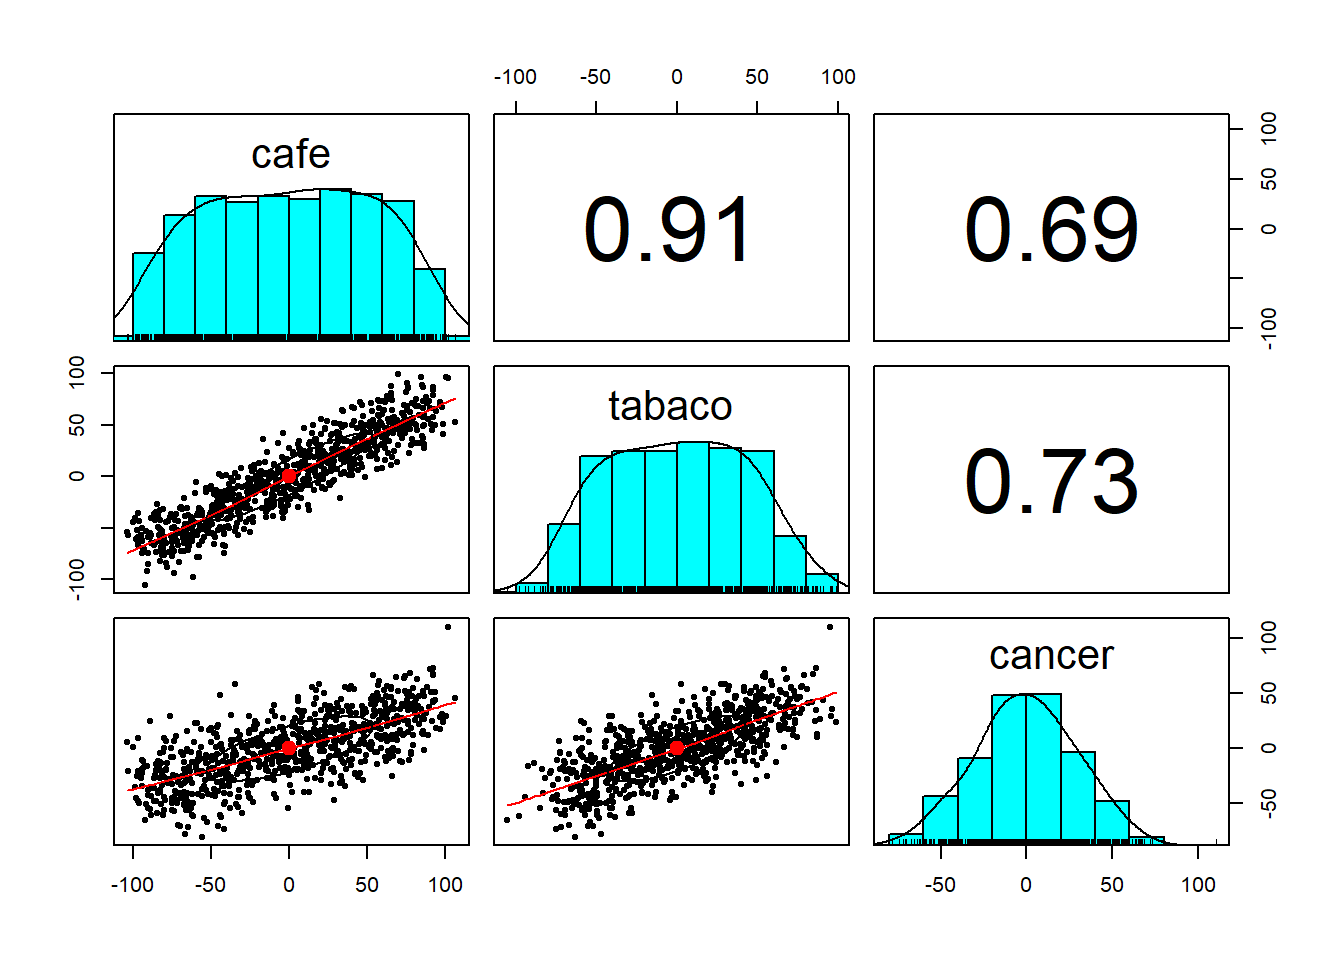
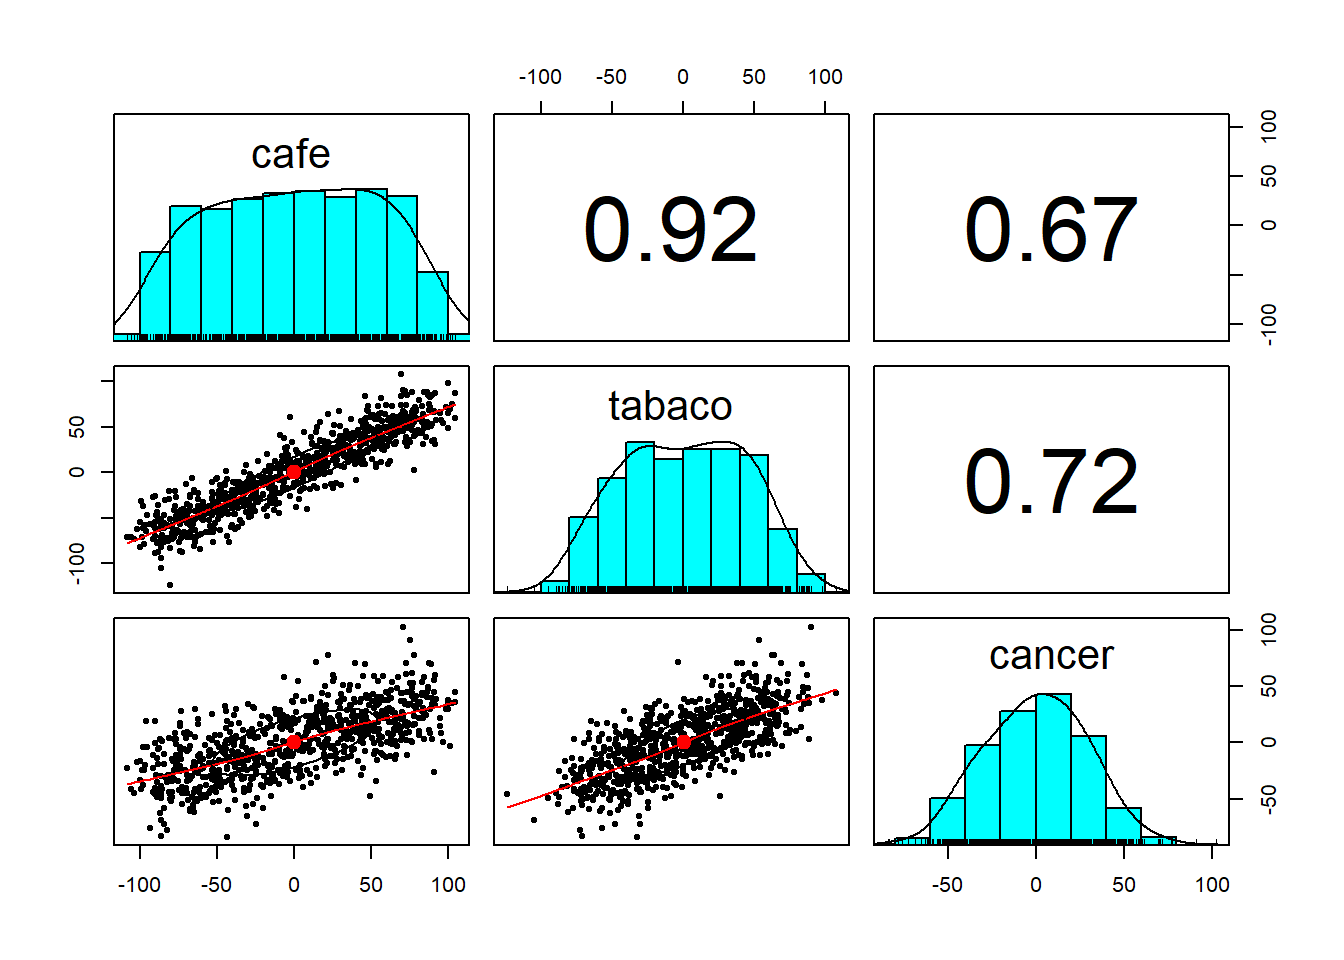
set seed en post inferencia, prediccion, colinealidad

diff --git a/content/post/2021-11-10-multicolinealidad-inferencia-y-prediccion/index.es.html b/content/post/2021-11-10-multicolinealidad-inferencia-y-prediccion/index.es.html
@@ -60,6 +60,8 @@ plot(dag_OK_cafe_tabaco)</code></pre>
 <pre class="r"><code>N &lt;- 1000
 estilo_de_vida &lt;- seq(-100, 100, length.out = N)
 
+set.seed(2021)
+
 # estilo_de_vida causa consumo de café
 cafe   &lt;- rnorm(N, .9 * estilo_de_vida, 10) 
 
@@ -72,7 +74,6 @@ cancer &lt;- rnorm(N, 0.5 * tabaco, 20)
 # Lo juntamos todo
 d &lt;- tibble(estilo_de_vida, cafe, tabaco, cancer)
 
-set.seed(2021)
 idx_train &lt;- caret::createDataPartition(d$cancer, p = .8, list = FALSE)
 d_train &lt;- d[idx_train, ]
 d_test  &lt;- d[-idx_train, ]</code></pre>
@@ -103,23 +104,23 @@ summary(lm_cafe_tabaco)</code></pre>
 ## 
 ## Residuals:
 ##     Min      1Q  Median      3Q     Max 
-## -53.895 -13.466  -0.088  13.825  63.248 
+## -68.354 -14.442  -0.442  13.902  73.135 
 ## 
 ## Coefficients:
 ##             Estimate Std. Error t value Pr(&gt;|t|)    
-## (Intercept) -0.08584    0.70757  -0.121   0.9035    
-## cafe         0.06287    0.03300   1.905   0.0571 .  
-## tabaco       0.43233    0.04111  10.517   &lt;2e-16 ***
+## (Intercept)  0.05810    0.71782   0.081    0.936    
+## cafe         0.01311    0.03409   0.385    0.701    
+## tabaco       0.47457    0.04220  11.246   &lt;2e-16 ***
 ## ---
 ## Signif. codes:  0 &#39;***&#39; 0.001 &#39;**&#39; 0.01 &#39;*&#39; 0.05 &#39;.&#39; 0.1 &#39; &#39; 1
 ## 
-## Residual standard error: 20.01 on 797 degrees of freedom
-## Multiple R-squared:  0.537,  Adjusted R-squared:  0.5359 
-## F-statistic: 462.3 on 2 and 797 DF,  p-value: &lt; 2.2e-16</code></pre>
+## Residual standard error: 20.29 on 797 degrees of freedom
+## Multiple R-squared:  0.5217, Adjusted R-squared:  0.5205 
+## F-statistic: 434.6 on 2 and 797 DF,  p-value: &lt; 2.2e-16</code></pre>
 <p>Vaya, <code>tabaco</code> parece una variable significativa, pero <code>cafe</code> no…</p>
 <p>¿Cuál es su capacidad de predicción? Veamos:</p>
 <pre class="r"><code>Metrics::mape(d_test$cancer, predict(lm_cafe_tabaco, d_test))</code></pre>
-<pre><code>## [1] 2.574253</code></pre>
+<pre><code>## [1] 1.561191</code></pre>
 <p>Y ¿si solo usáramos tabaco?</p>
 <pre class="r"><code>lm_tabaco &lt;- lm(cancer ~ tabaco, d_train)
 summary(lm_tabaco)</code></pre>
@@ -129,20 +130,20 @@ summary(lm_tabaco)</code></pre>
 ## 
 ## Residuals:
 ##     Min      1Q  Median      3Q     Max 
-## -54.389 -13.864   0.389  13.358  62.842 
+## -68.439 -14.288  -0.309  13.844  73.383 
 ## 
 ## Coefficients:
 ##             Estimate Std. Error t value Pr(&gt;|t|)    
-## (Intercept) -0.06017    0.70861  -0.085    0.932    
-## tabaco       0.50398    0.01663  30.297   &lt;2e-16 ***
+## (Intercept)  0.04985    0.71712    0.07    0.945    
+## tabaco       0.48949    0.01660   29.50   &lt;2e-16 ***
 ## ---
 ## Signif. codes:  0 &#39;***&#39; 0.001 &#39;**&#39; 0.01 &#39;*&#39; 0.05 &#39;.&#39; 0.1 &#39; &#39; 1
 ## 
-## Residual standard error: 20.04 on 798 degrees of freedom
-## Multiple R-squared:  0.5349, Adjusted R-squared:  0.5344 
-## F-statistic: 917.9 on 1 and 798 DF,  p-value: &lt; 2.2e-16</code></pre>
+## Residual standard error: 20.28 on 798 degrees of freedom
+## Multiple R-squared:  0.5216, Adjusted R-squared:  0.521 
+## F-statistic:   870 on 1 and 798 DF,  p-value: &lt; 2.2e-16</code></pre>
 <pre class="r"><code>Metrics::mape(d_test$cancer, predict(lm_tabaco, d_test))</code></pre>
-<pre><code>## [1] 2.656389</code></pre>
+<pre><code>## [1] 1.569951</code></pre>
 <p>Era previsible: la variable tabaco sigue siendo significativa y la predicción
 sobre datos de test es casi igual.</p>
 <p>Por cierto: ¿te has fijado que los coeficientes de <code>tabaco</code> y <code>cafe</code> del primer
@@ -156,22 +157,22 @@ summary(lm_cafe)</code></pre>
 ## lm(formula = cancer ~ cafe, data = d)
 ## 
 ## Residuals:
-##    Min     1Q Median     3Q    Max 
-## -65.19 -14.11  -0.05  13.97  73.32 
+##     Min      1Q  Median      3Q     Max 
+## -68.124 -14.445  -1.265  14.513  76.619 
 ## 
 ## Coefficients:
 ##             Estimate Std. Error t value Pr(&gt;|t|)    
-## (Intercept) -0.04118    0.67479  -0.061    0.951    
-## cafe         0.36555    0.01262  28.973   &lt;2e-16 ***
+## (Intercept)  0.06791    0.69313   0.098    0.922    
+## cafe         0.36781    0.01297  28.349   &lt;2e-16 ***
 ## ---
 ## Signif. codes:  0 &#39;***&#39; 0.001 &#39;**&#39; 0.01 &#39;*&#39; 0.05 &#39;.&#39; 0.1 &#39; &#39; 1
 ## 
-## Residual standard error: 21.34 on 998 degrees of freedom
-## Multiple R-squared:  0.4569, Adjusted R-squared:  0.4563 
-## F-statistic: 839.4 on 1 and 998 DF,  p-value: &lt; 2.2e-16</code></pre>
+## Residual standard error: 21.92 on 998 degrees of freedom
+## Multiple R-squared:  0.4461, Adjusted R-squared:  0.4455 
+## F-statistic: 803.7 on 1 and 998 DF,  p-value: &lt; 2.2e-16</code></pre>
 <p>¡Anda! Ahora <code>cafe</code> es significativa casi igual que <code>tabaco</code> antes…</p>
 <pre class="r"><code>Metrics::mape(d_test$cancer, predict(lm_cafe, d_test))</code></pre>
-<pre><code>## [1] 2.09132</code></pre>
+<pre><code>## [1] 1.61489</code></pre>
 <p>Y no predice mucho peor…</p>
 <p>Resumiendo: el modelo que hemos hipotetizado, con dos variables explicativas
 - <code>cafe</code> y <code>tabaco</code> - fuertemente correlacionadas entre si, sufre de <strong>colinealidad</strong>:
@@ -216,7 +217,8 @@ partimos de una hipótesis inicial (<code>cafe</code>-&gt; <code>cancer</code> &
 lo más importante - de la estructura ****causal*** de nuestro
 hipotético modelo podemos deducir consecuencias <strong><em>comprobables</em></strong> en los datos
 relativas a las independencias tanto marginales como condicionales entre las
-variables del modelo. Esto lo podemos utilizar para contrastar la validez
+variables del modelo. E
+sto lo podemos utilizar para contrastar la validez
 del modelo que estemos planteando como hipótesis.</p>
 <p>Nuestro modelo hipotético tiene la forma del tercer elemento a considerar en un
 gráfico causal DAG (Directed Acyclic Graph): se trata de un <strong>colisionador</strong> (<em>collider</em>).
